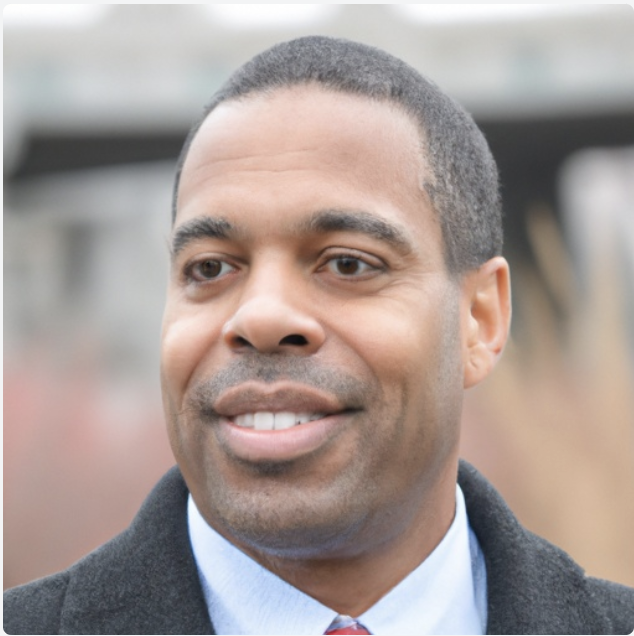
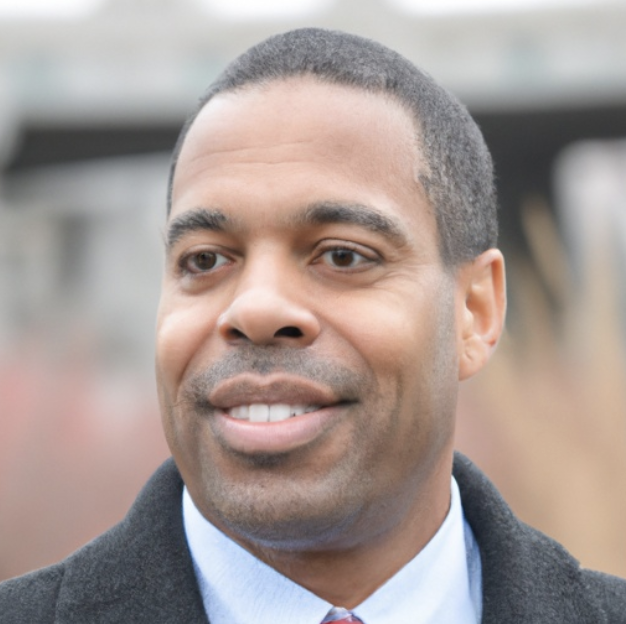
Fixed image not cropped properly

diff --git a/react-website-design/src/pages/CandidatesPage/Candidates.css b/react-website-design/src/pages/CandidatesPage/Candidates.css
@@ -26,7 +26,6 @@ html, body {
 }
 
 .card {
-    position: relative;
     padding: 20px;
     margin-bottom: 3px;
     margin-top: 3px;
@@ -36,9 +35,7 @@ html, body {
     box-shadow: 0 0 10px 0 rgba(255, 0, 0, 0.5);
 }
 
-/* .candidateImg {
-    border: 10px solid transparent;
-    background-clip: padding-box;
-    background-image: linear-gradient(to bottom, #ff0000, #ffffff, #0000ff);
-} */
+.candidateImg {
+    border: 5px solid rgb(255, 85, 85);
+}
   

diff --git a/react-website-design/src/pages/CandidatesPage/CandidateCard.js b/react-website-design/src/pages/CandidatesPage/CandidateCard.js
@@ -128,7 +128,9 @@ export default function CandidateCard(candidateData) {
   return (
     <div>
       <Card className="card" sx={{ width: '350px', height: '600px', backgroundColor: '#2b3036' }}>
-        <CardMedia className="candidateImg"
+        <CardMedia 
+          className="candidateImg"
+          /*border="10px solid black"*/
           component="img"
           height="400"
           width="200"

diff --git a/node-rest-api/src/database-connection.js b/node-rest-api/src/database-connection.js
@@ -4,7 +4,7 @@ let connection = mysql2.createConnection({
     host: 'localhost',
     database: 'voter_registration',
     user: 'root',
-    password: '12345'
+    password: 'password'
 });
 
 connection.connect(function (error) {
